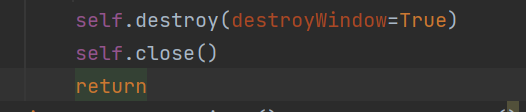
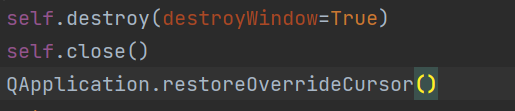
changed cursor to cross when cropping screenshot

diff --git a/main.py b/main.py
@@ -35,6 +35,8 @@ class ScreenShotWindow(QWidget):
         super().__init__()
         layout = QVBoxLayout()
         self.move(0, 0)
+        QApplication.setOverrideCursor(Qt.CrossCursor)
+
 
         self.setFixedHeight(QDesktopWidget().screenGeometry().height())
         self.setFixedWidth(QDesktopWidget().screenGeometry().width())
@@ -76,6 +78,7 @@ class ScreenShotWindow(QWidget):
                                     QMessageBox.Ok)
                 self.destroy(destroyWindow=True)
                 self.close()
+                QApplication.restoreOverrideCursor()
                 return
             if self.RectBegin.x() < self.RectDest.x():
                 if self.RectBegin.y() < self.RectDest.y():
@@ -91,6 +94,7 @@ class ScreenShotWindow(QWidget):
             im.crop((x, y, xd, yd)).save("screenshot.png", quality=100)
             self.RectBegin, self.RectDest = QPoint(), QPoint
             os.remove("screenshot_temp.png")
+            QApplication.restoreOverrideCursor()
             self.destroy(destroyWindow=True)
             self.close()
 
